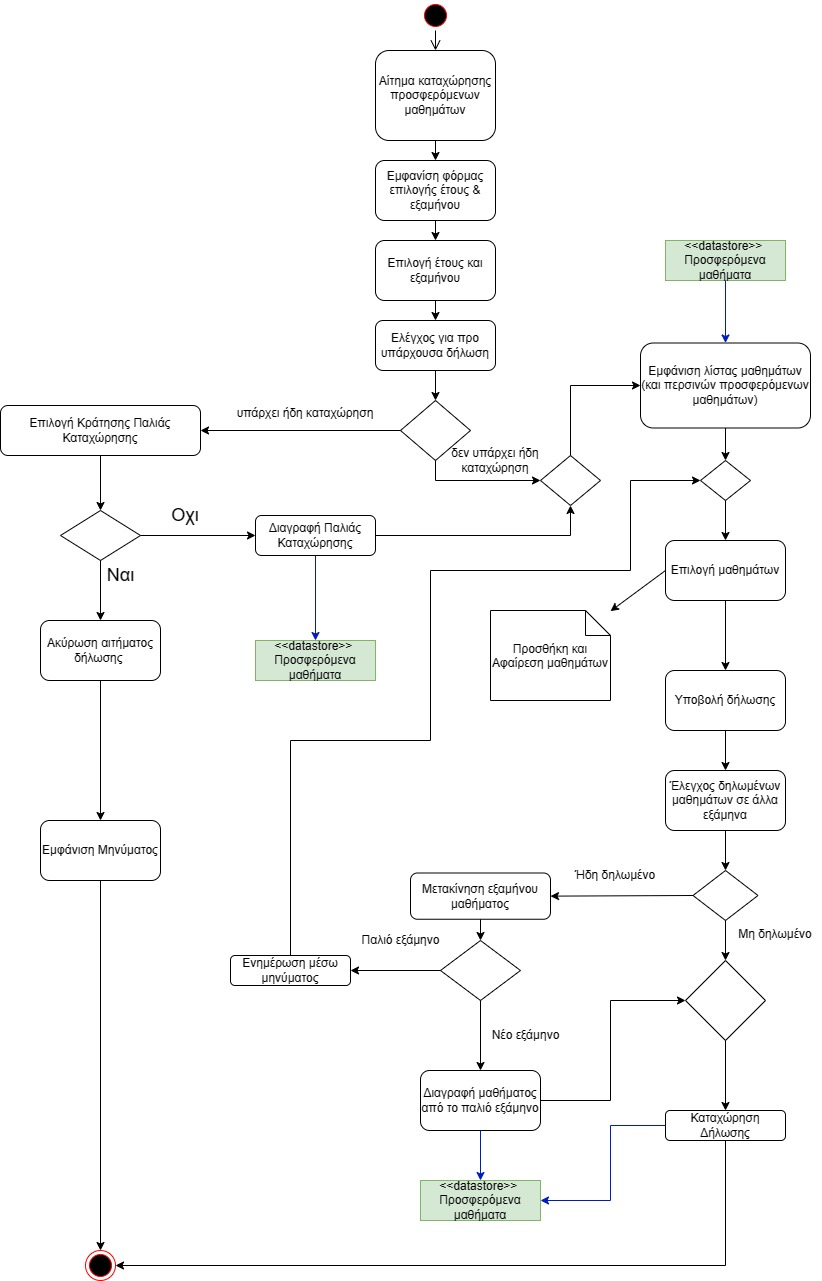
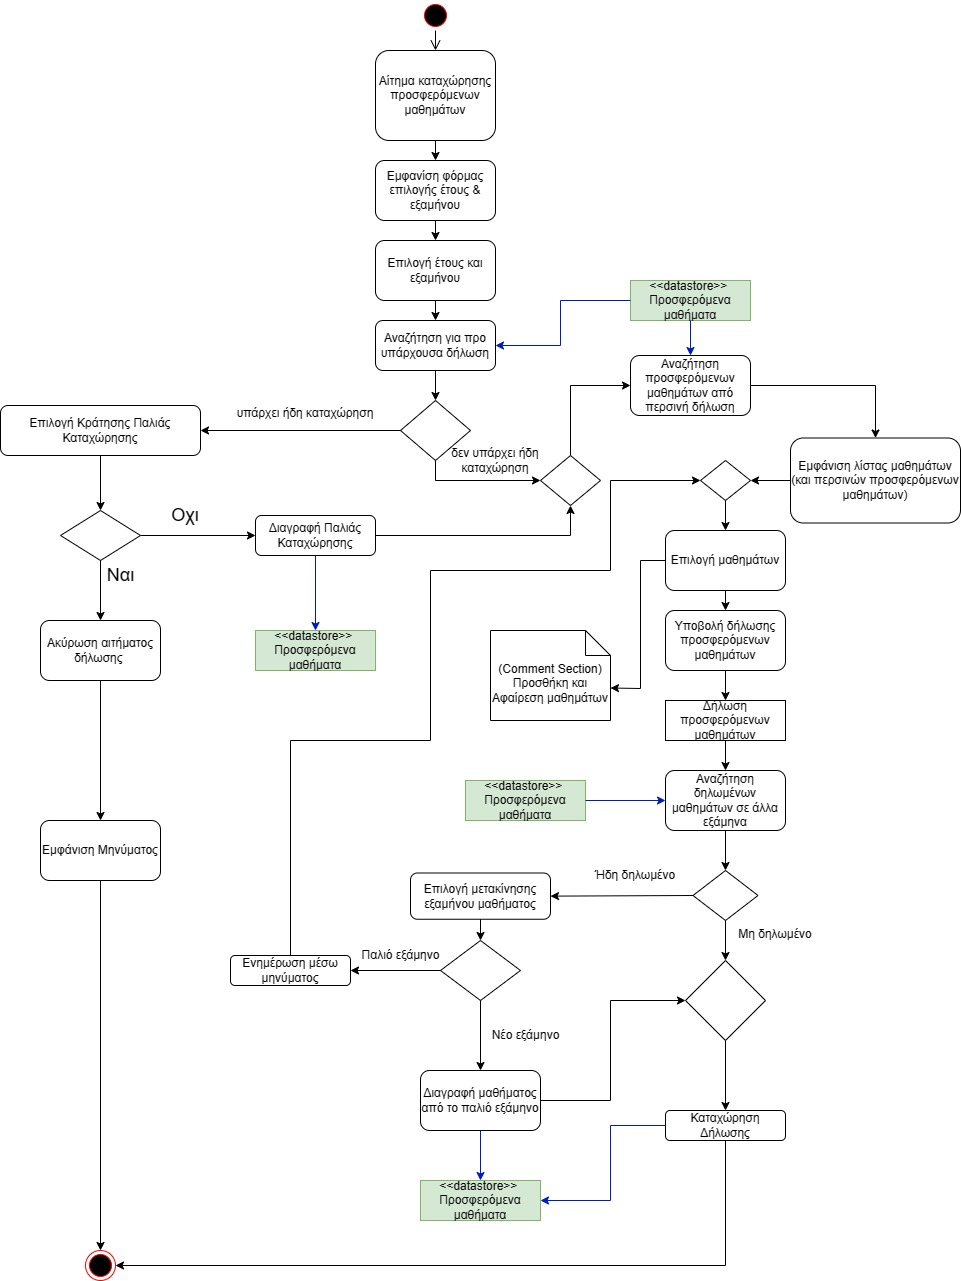
Adding new changes in uc4 diagram & description -> a new step in basic flow

diff --git a/docs/markdown/uc4-offered-subjects-registration.md b/docs/markdown/uc4-offered-subjects-registration.md
@@ -19,12 +19,13 @@
 1. Ο Υπεύθυνος Γραμματείας επιλέγει την Καταχώρηση Προσφερόμενων Μαθημάτων.
 2. Το Σύστημα εμφανίζει την φόρμα επιλογής έτους και εξαμήνου.
 3. Ο Υπεύθυνος Γραμματείας επιλέγει το έτος και εξάμηνο.
-4. Το σύστημα κάνει τους απαραίτητους ελέγχους (αν έχει ήδη γίνει δήλωση για το συγκεκριμένο έτος και εξάμηνο).
-5. Το σύστημα εμφανίζει μια λίστα με όλα τα καταχωρημένα μαθήματα και προεπιλεγμένα εκείνα από την περσινή δήλωση μαθημάτων.
-6. Ο Υπεύθυνος Γραμματείας επιλέγει τα μαθήματα που θα προσφερθούν ή θα αφαιρεθούν από την δήλωση.
-7. Ο Υπεύθυνος Γραμματείας υποβάλλει το αίτημα.
-8. Το σύστημα κάνει τους απαραίτητους ελέγχους (αν υπάρχει μάθημα το οποίο είναι ήδη προσφερόμενο).
-9. Το σύστημα καταχωρεί την δήλωση των προσφερόμενων μαθημάτων.
+4. Το σύστημα κάνει τους απαραίτητους ελέγχους με αναζήτηση στο αν έχει ήδη γίνει δήλωση για το συγκεκριμένο έτος και εξάμηνο.
+5. Το σύστημα αναζητά τα προσφερόμενα μαθήματα του προηγούμενου έτους στο ίδιο εξάμηνο.
+6. Το σύστημα εμφανίζει μια λίστα με όλα τα καταχωρημένα μαθήματα και προεπιλεγμένα εκείνα από την περσινή δήλωση μαθημάτων.
+7. Ο Υπεύθυνος Γραμματείας επιλέγει τα μαθήματα που θα προσφερθούν (προσθήκη νέων μαθημάτων ή αφαίρεση των προεπιλεγμένων από την περσινή δήλωση).
+8. Ο Υπεύθυνος Γραμματείας υποβάλλει το αίτημα.
+9. Το σύστημα κάνει τους απαραίτητους ελέγχους (αν υπάρχει μάθημα το οποίο είναι ήδη προσφερόμενο).
+10. Το σύστημα καταχωρεί την δήλωση των προσφερόμενων μαθημάτων.
 
 ## Εναλλακτικές Ροές
 
@@ -45,7 +46,7 @@
         1. Το σύστημα διαγράφει τη "παλιά" δήλωση.
         2. Το σύστημα επιστρέφει στο Βήμα 5. 
 
-*8α. Το μάθημα είναι ήδη προσφερόμενο*
+*9α. Το μάθημα είναι ήδη προσφερόμενο*
 1. Το σύστημα εμφανίζει μήνυμα στον Υπέυθυνο Γραμματείας σχετικά με το ποιό από τα 2 θέλει να κρατήσει (Παλιά ή καινούρια επιλογή εξαμήνου).
 2. Ο Υπεύθυνος Γραμματείας κάνει την επιλογή.
     * 2α. Ο Υπεύθυνος Γραμματείας επέλεξε την παλιά έκδοση.
